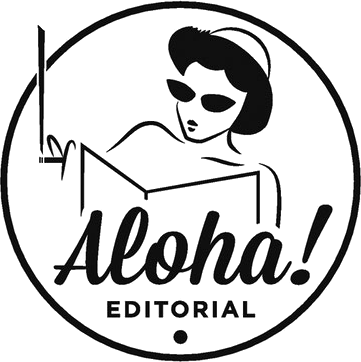
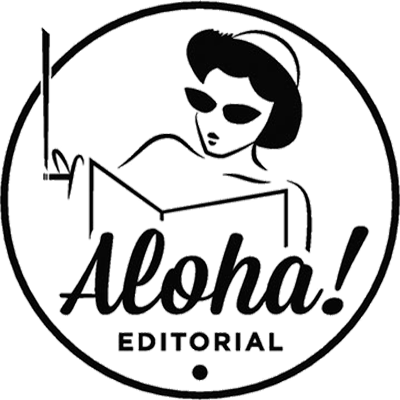
fix images size

diff --git a/src/views/FeriaVirtualPage/FeriaVirtualPage.jsx b/src/views/FeriaVirtualPage/FeriaVirtualPage.jsx
@@ -18,11 +18,11 @@ import literup from '../../assets/images/feria/literup.png'
 import loba from '../../assets/images/feria/loba.png'
 import maimes from '../../assets/images/feria/maimes.png'
 import obscura from '../../assets/images/feria/obscura.png'
-import pezplata from '../../assets/images/feria/pezplata.gif'
+import pezplata from '../../assets/images/feria/pezplata.png'
 import ping from '../../assets/images/feria/ping.png'
 import pluma from '../../assets/images/feria/pluma.png'
 import premium from '../../assets/images/feria/premium.png'
-import raigvert from '../../assets/images/feria/raigvert.jpg'
+import raigvert from '../../assets/images/feria/raigvert.png'
 import roomie from '../../assets/images/feria/roomie.png'
 import FeriaCard from '../../components/FeriaCard/FeriaCard'
 

diff --git a/src/components/Card/Card.jsx b/src/components/Card/Card.jsx
@@ -1,5 +1,5 @@
 import { useState } from 'react'
-import './Card.style.css'
+import './Card.style.scss'
 import youtubeIcon from '../../assets/images/icons/youtube-icon.svg'
 import bookmarkOutline from '../../assets/images/icons/bookmark-outline.svg'
 import bookmarkFull from '../../assets/images/icons/bookmark-full.svg'

diff --git a/src/views/ProgramaPage/ProgramaPage.jsx b/src/views/ProgramaPage/ProgramaPage.jsx
@@ -7,7 +7,7 @@ import data from '../../assets/data/programa.json'
 
 import { useState, useEffect } from 'react'
 
-import './ProgramaPage.style.css'
+import './ProgramaPage.style.scss'
 
 import ignotus from '../../assets/images/events/ignotus.jpg'
 import visiones from '../../assets/images/events/visiones.jpg'

diff --git a/src/components/Footer/Footer.jsx b/src/components/Footer/Footer.jsx
@@ -1,5 +1,5 @@
 import {AACC,	AKIRA,	GIGAMESH,	INSOLITA,	MUNDOS,	MUSEOS,	QCENTER,	ROSSA,	SHOGUN,	UMA, DUERMEVELA} from '../../assets/images/partners'
-import './Footer.style.css'
+import './Footer.style.scss'
 
 export default function Footer() {
   return (

diff --git a/src/views/ProgramaPage/ProgramaPage.style.scss b/src/views/ProgramaPage/ProgramaPage.style.scss
@@ -36,7 +36,7 @@
 
 .grid-layout {
 	display: grid;
-	grid-template-columns: repeat(auto-fit, minmax(300px, 1fr));
+	grid-template-columns: repeat(auto-fit, minmax(250px, 1fr));
 	gap: 1.5rem;
 	padding: 1rem 0;
 }
